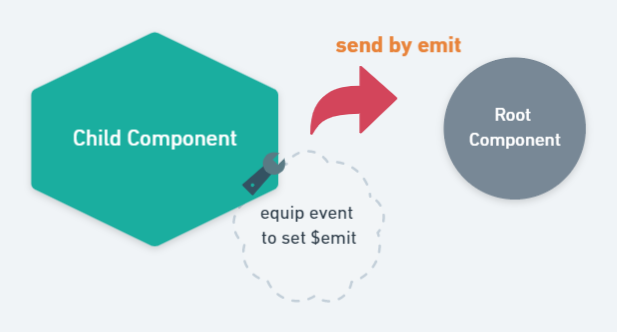
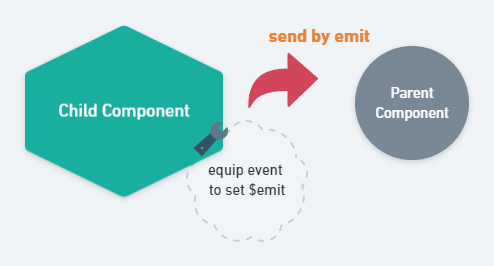
Site updated: 2020-03-16 23:45:29

diff --git a/2020/03/16/vue-emit/index.html b/2020/03/16/vue-emit/index.html
@@ -21,17 +21,17 @@
     var CONFIG = {"hostname":"yoursite.com","root":"/","scheme":"Pisces","version":"7.7.2","exturl":false,"sidebar":{"position":"right","display":"post","padding":18,"offset":12,"onmobile":false},"copycode":{"enable":true,"show_result":true,"style":"default"},"back2top":{"enable":true,"sidebar":false,"scrollpercent":false},"bookmark":{"enable":false,"color":"#222","save":"auto"},"fancybox":false,"mediumzoom":false,"lazyload":false,"pangu":false,"comments":{"style":"tabs","active":null,"storage":true,"lazyload":false,"nav":null},"algolia":{"hits":{"per_page":10},"labels":{"input_placeholder":"Search for Posts","hits_empty":"We didn't find any results for the search: ${query}","hits_stats":"${hits} results found in ${time} ms"}},"localsearch":{"enable":false,"trigger":"auto","top_n_per_article":1,"unescape":false,"preload":false},"motion":{"enable":true,"async":false,"transition":{"post_block":"fadeIn","post_header":"slideDownIn","post_body":"slideDownIn","coll_header":"slideLeftIn","sidebar":"slideUpIn"}}};
   </script>
 
-  <meta name="description" content="如果我們想要從子元件傳遞資料到根元件，我們必須使用$emit 建立一個客製化的事件，再透過這個事件，把資料投擲進到根元件。要怎麼做呢？概念其實和 props 差不多。當我們要把根元件的資料傳進子元件，需要透過 props 的方法，在子元件中建立一個接收資料的環境。 同樣的，子元件要投遞資料到根元件，也會需要先在子元件打造一組工具(客製化事件、custom event)，讓 Vue 先建構一個客製">
+  <meta name="description" content="如果我們想要從子元件傳遞資料到母元件，我們必須使用$emit 建立一個客製化的事件，再透過這個事件，把資料投擲進到母元件。要怎麼做呢？概念其實和 props 差不多。當我們要把根元件的資料傳進子元件，需要透過 props 的方法，在子元件中建立一個接收資料的環境。 同樣的，子元件要投遞資料到母元件，也會需要先在子元件打造一組工具(客製化事件、custom event)，讓 Vue 先建構一個客製">
 <meta property="og:type" content="article">
 <meta property="og:title" content="【Vue】$emit，透過客製化事件把子元件的資料傳到根元件">
 <meta property="og:url" content="http://yoursite.com/2020/03/16/vue-emit/index.html">
 <meta property="og:site_name" content="Myia&#39;s blog">
-<meta property="og:description" content="如果我們想要從子元件傳遞資料到根元件，我們必須使用$emit 建立一個客製化的事件，再透過這個事件，把資料投擲進到根元件。要怎麼做呢？概念其實和 props 差不多。當我們要把根元件的資料傳進子元件，需要透過 props 的方法，在子元件中建立一個接收資料的環境。 同樣的，子元件要投遞資料到根元件，也會需要先在子元件打造一組工具(客製化事件、custom event)，讓 Vue 先建構一個客製">
+<meta property="og:description" content="如果我們想要從子元件傳遞資料到母元件，我們必須使用$emit 建立一個客製化的事件，再透過這個事件，把資料投擲進到母元件。要怎麼做呢？概念其實和 props 差不多。當我們要把根元件的資料傳進子元件，需要透過 props 的方法，在子元件中建立一個接收資料的環境。 同樣的，子元件要投遞資料到母元件，也會需要先在子元件打造一組工具(客製化事件、custom event)，讓 Vue 先建構一個客製">
 <meta property="og:locale" content="zh_TW">
 <meta property="og:image" content="http://yoursite.com/post_img/vue_emit.png">
 <meta property="og:image" content="http://yoursite.com/post_img/web_materials/line_bright.png">
 <meta property="article:published_time" content="2020-03-16T15:16:07.000Z">
-<meta property="article:modified_time" content="2020-03-16T15:17:15.471Z">
+<meta property="article:modified_time" content="2020-03-16T15:41:20.183Z">
 <meta property="article:author" content="Myia">
 <meta property="article:tag" content="w3HexSchool">
 <meta name="twitter:card" content="summary">
@@ -207,7 +207,7 @@
               <span class="post-meta-item-text">發表於</span>
               
 
-              <time title="創建時間：2020-03-16 23:16:07 / 修改時間：23:17:15" itemprop="dateCreated datePublished" datetime="2020-03-16T23:16:07+08:00">2020-03-16</time>
+              <time title="創建時間：2020-03-16 23:16:07 / 修改時間：23:41:20" itemprop="dateCreated datePublished" datetime="2020-03-16T23:16:07+08:00">2020-03-16</time>
             </span>
             <span class="post-meta-item">
               <span class="post-meta-item-icon">
@@ -231,8 +231,8 @@
 
       
         <p><img src="/post_img/vue_emit.png" alt="外部資料傳遞進元件裡"></p>
-<p>如果我們想要從子元件傳遞資料到根元件，我們必須使用$emit 建立一個客製化的事件，再透過這個事件，把資料投擲進到根元件。要怎麼做呢？概念其實和 props 差不多。當我們要把根元件的資料傳進子元件，需要透過 props 的方法，在子元件中建立一個接收資料的環境。</p>
-<p>同樣的，子元件要投遞資料到根元件，也會需要先在子元件打造一組工具(客製化事件、custom event)，讓 Vue 先建構一個客製化事件。最後，再透過 DOM 模板，綁定這個工具，進一步呼叫根元件的函式。</p>
+<p>如果我們想要從子元件傳遞資料到母元件，我們必須使用$emit 建立一個客製化的事件，再透過這個事件，把資料投擲進到母元件。要怎麼做呢？概念其實和 props 差不多。當我們要把根元件的資料傳進子元件，需要透過 props 的方法，在子元件中建立一個接收資料的環境。</p>
+<p>同樣的，子元件要投遞資料到母元件，也會需要先在子元件打造一組工具(客製化事件、custom event)，讓 Vue 先建構一個客製化事件。最後，再透過 DOM 模板，綁定這個工具，進一步呼叫根元件的函式。</p>
 <a id="more"></a>
 <p>&ensp;<br><img src="/post_img/web_materials/line_bright.png" alt="分隔線"></p>
 <h2 id="根元件觸發事件的過程"><a href="#根元件觸發事件的過程" class="headerlink" title="根元件觸發事件的過程"></a>根元件觸發事件的過程</h2><p>先來複習一下根元件綁定事件的過程：</p>
@@ -242,7 +242,7 @@
 <p>^</p>
 <h2 id="子元件呼叫根元件的-method"><a href="#子元件呼叫根元件的-method" class="headerlink" title="子元件呼叫根元件的 method"></a>子元件呼叫根元件的 method</h2><p>如果，我們今天要將 <code>incrementTotal</code> 綁定到元件上，是不可行的。像這樣：</p>
 <p><code>&lt;component @click=&quot;incrementTotal&quot;&gt;&lt;/component&gt;</code> (錯誤示範)</p>
-<p>這是因為，我們無法在子元件直接使用根元件的任何東西，data、methods 都是。如果想要使用根元件的事件，我們就需要在子元件建立一個客製化事件(custom event)，再透過這個事件的指令呼叫根元件的 method。</p>
+<p>這是因為，我們無法在子元件直接使用母元件的任何東西，data、methods 都是。如果想要使用母元件的事件，我們就需要在子元件建立一個客製化事件(custom event)，再透過這個事件的指令呼叫母元件的 method。</p>
 <h3 id="子元件中"><a href="#子元件中" class="headerlink" title="子元件中"></a>子元件中</h3><h4 id="x-template"><a href="#x-template" class="headerlink" title="x-template"></a>x-template</h4><figure class="highlight html"><table><tr><td class="gutter"><pre><span class="line">1</span><br></pre></td><td class="code"><pre><span class="line"><span class="tag">&lt;<span class="name">button</span> @<span class="attr">click</span>=<span class="string">"incrementCounter"</span> <span class="attr">class</span>=<span class="string">"btn btn-outline-primary"</span>&gt;</span>增加 &#123;&#123; counter &#125;&#125; 元<span class="tag">&lt;/<span class="name">button</span>&gt;</span></span><br></pre></td></tr></table></figure>
 <p><strong>子元件的 template 事件呼叫建立客製化事件的函式</strong><br>^</p>
 <figure class="highlight js"><table><tr><td class="gutter"><pre><span class="line">1</span><br><span class="line">2</span><br><span class="line">3</span><br><span class="line">4</span><br><span class="line">5</span><br><span class="line">6</span><br><span class="line">7</span><br><span class="line">8</span><br></pre></td><td class="code"><pre><span class="line">Vue.component(<span class="string">'component'</span>,&#123;</span><br><span class="line">    <span class="comment">//...略</span></span><br><span class="line">    methods: &#123;</span><br><span class="line">        incrementCounter: <span class="function"><span class="keyword">function</span> (<span class="params"></span>) </span>&#123;</span><br><span class="line">            <span class="keyword">this</span>.$emit(<span class="string">'increment'</span>); <span class="comment">//建立一個客製化事件</span></span><br><span class="line">    &#125;</span><br><span class="line">&#125;</span><br><span class="line">&#125;)</span><br></pre></td></tr></table></figure>
@@ -256,13 +256,13 @@
 <figure class="highlight html"><table><tr><td class="gutter"><pre><span class="line">1</span><br></pre></td><td class="code"><pre><span class="line"><span class="tag">&lt;<span class="name">component</span> @<span class="attr">custom-event</span>=<span class="string">"rootMethod"</span>&gt;</span><span class="tag">&lt;/<span class="name">component</span>&gt;</span></span><br></pre></td></tr></table></figure>
 
 <p>這樣就達成子元件呼叫根元件的目的了。</p>
-<h2 id="那資料呢？"><a href="#那資料呢？" class="headerlink" title="那資料呢？"></a>那資料呢？</h2><p>說了這麼多，還沒講到資料。資料的部分，也是透過 <code>this.$emit()</code> 這個方法傳遞的。在這個方法中，第一個參數為這個客製化事件的名稱，第二的參數就是要投擲到根元件的資料啦！如下：</p>
+<h2 id="那資料呢？"><a href="#那資料呢？" class="headerlink" title="那資料呢？"></a>那資料呢？</h2><p>說了這麼多，還沒講到資料。資料的部分，也是透過 <code>this.$emit()</code> 這個方法傳遞的。在這個方法中，第一個參數為這個客製化事件的名稱，第二的參數就是要投擲到母元件的資料啦！如下：</p>
 <h3 id="子元件"><a href="#子元件" class="headerlink" title="子元件"></a>子元件</h3><figure class="highlight js"><table><tr><td class="gutter"><pre><span class="line">1</span><br></pre></td><td class="code"><pre><span class="line"><span class="keyword">this</span>.$emit(<span class="string">'name'</span>, <span class="keyword">this</span>.dataName)</span><br></pre></td></tr></table></figure>
 
-<p>不過，這樣還沒結束。在跨元件的傳遞中，如果設定了一方，另一方一定也會有相對應的設定。這樣 Vue 才會知道，要在哪「兩個」元件之間做傳遞。所以，在這個範例中，子元件已經做好傳遞資料的準備，根元件當然也要有個地方接收子元件的資料。因為上述都是和事件相關的設定，想當然根元件接收資料的地方，也會是在 methods 裏頭：</p>
-<h3 id="根元件"><a href="#根元件" class="headerlink" title="根元件"></a>根元件</h3><figure class="highlight js"><table><tr><td class="gutter"><pre><span class="line">1</span><br><span class="line">2</span><br><span class="line">3</span><br><span class="line">4</span><br><span class="line">5</span><br></pre></td><td class="code"><pre><span class="line">methods:&#123;</span><br><span class="line">    rootMethod(num)&#123;</span><br><span class="line">        <span class="keyword">this</span>.dataName += num;</span><br><span class="line">    &#125;</span><br><span class="line">&#125;</span><br></pre></td></tr></table></figure>
+<p>不過，這樣還沒結束。在跨元件的傳遞中，如果設定了一方，另一方一定也會有相對應的設定。這樣 Vue 才會知道，要在哪「兩個」元件之間做傳遞。所以，在這個範例中，子元件已經做好傳遞資料的準備，根元件當然也要有個地方接收子元件的資料。因為上述都是和事件相關的設定，想當然母元件接收資料的地方，也會是在 methods 裏頭：</p>
+<h3 id="母元件"><a href="#母元件" class="headerlink" title="母元件"></a>母元件</h3><figure class="highlight js"><table><tr><td class="gutter"><pre><span class="line">1</span><br><span class="line">2</span><br><span class="line">3</span><br><span class="line">4</span><br><span class="line">5</span><br></pre></td><td class="code"><pre><span class="line">methods:&#123;</span><br><span class="line">    rootMethod(num)&#123;</span><br><span class="line">        <span class="keyword">this</span>.dataName += num;</span><br><span class="line">    &#125;</span><br><span class="line">&#125;</span><br></pre></td></tr></table></figure>
 <p>…<br>記得嗎？上述我們透過客製化事件呼叫根元件的函式　<code>&lt;component　@custom-evnet=&quot;rootMethod&quot;&gt;&lt;/component&gt;</code>，如果要接收資料，透過在這個函式建立一個參數，Vue 就會知道這個參數等於子元件傳出來的資料了。</p>
-<p>如此一來，我們就能透過根元件做子元件資料的計算。</p>
+<p>如此一來，我們就能透過母元件做子元件資料的計算。</p>
 
     </div>
 
@@ -344,7 +344,7 @@
 
       <!--noindex-->
       <div class="post-toc-wrap sidebar-panel">
-          <div class="post-toc motion-element"><ol class="nav"><li class="nav-item nav-level-2"><a class="nav-link" href="#根元件觸發事件的過程"><span class="nav-number">1.</span> <span class="nav-text">根元件觸發事件的過程</span></a></li><li class="nav-item nav-level-2"><a class="nav-link" href="#子元件呼叫根元件的-method"><span class="nav-number">2.</span> <span class="nav-text">子元件呼叫根元件的 method</span></a><ol class="nav-child"><li class="nav-item nav-level-3"><a class="nav-link" href="#子元件中"><span class="nav-number">2.1.</span> <span class="nav-text">子元件中</span></a><ol class="nav-child"><li class="nav-item nav-level-4"><a class="nav-link" href="#x-template"><span class="nav-number">2.1.1.</span> <span class="nav-text">x-template</span></a></li></ol></li></ol></li><li class="nav-item nav-level-2"><a class="nav-link" href="#那資料呢？"><span class="nav-number">3.</span> <span class="nav-text">那資料呢？</span></a><ol class="nav-child"><li class="nav-item nav-level-3"><a class="nav-link" href="#子元件"><span class="nav-number">3.1.</span> <span class="nav-text">子元件</span></a></li><li class="nav-item nav-level-3"><a class="nav-link" href="#根元件"><span class="nav-number">3.2.</span> <span class="nav-text">根元件</span></a></li></ol></li></ol></div>
+          <div class="post-toc motion-element"><ol class="nav"><li class="nav-item nav-level-2"><a class="nav-link" href="#根元件觸發事件的過程"><span class="nav-number">1.</span> <span class="nav-text">根元件觸發事件的過程</span></a></li><li class="nav-item nav-level-2"><a class="nav-link" href="#子元件呼叫根元件的-method"><span class="nav-number">2.</span> <span class="nav-text">子元件呼叫根元件的 method</span></a><ol class="nav-child"><li class="nav-item nav-level-3"><a class="nav-link" href="#子元件中"><span class="nav-number">2.1.</span> <span class="nav-text">子元件中</span></a><ol class="nav-child"><li class="nav-item nav-level-4"><a class="nav-link" href="#x-template"><span class="nav-number">2.1.1.</span> <span class="nav-text">x-template</span></a></li></ol></li></ol></li><li class="nav-item nav-level-2"><a class="nav-link" href="#那資料呢？"><span class="nav-number">3.</span> <span class="nav-text">那資料呢？</span></a><ol class="nav-child"><li class="nav-item nav-level-3"><a class="nav-link" href="#子元件"><span class="nav-number">3.1.</span> <span class="nav-text">子元件</span></a></li><li class="nav-item nav-level-3"><a class="nav-link" href="#母元件"><span class="nav-number">3.2.</span> <span class="nav-text">母元件</span></a></li></ol></li></ol></div>
       </div>
       <!--/noindex-->
 

diff --git a/2020/03/15/vue-props-basic/index.html b/2020/03/15/vue-props-basic/index.html
@@ -21,17 +21,17 @@
     var CONFIG = {"hostname":"yoursite.com","root":"/","scheme":"Pisces","version":"7.7.2","exturl":false,"sidebar":{"position":"right","display":"post","padding":18,"offset":12,"onmobile":false},"copycode":{"enable":true,"show_result":true,"style":"default"},"back2top":{"enable":true,"sidebar":false,"scrollpercent":false},"bookmark":{"enable":false,"color":"#222","save":"auto"},"fancybox":false,"mediumzoom":false,"lazyload":false,"pangu":false,"comments":{"style":"tabs","active":null,"storage":true,"lazyload":false,"nav":null},"algolia":{"hits":{"per_page":10},"labels":{"input_placeholder":"Search for Posts","hits_empty":"We didn't find any results for the search: ${query}","hits_stats":"${hits} results found in ${time} ms"}},"localsearch":{"enable":false,"trigger":"auto","top_n_per_article":1,"unescape":false,"preload":false},"motion":{"enable":true,"async":false,"transition":{"post_block":"fadeIn","post_header":"slideDownIn","post_body":"slideDownIn","coll_header":"slideLeftIn","sidebar":"slideUpIn"}}};
   </script>
 
-  <meta name="description" content="(以下是使用 CDN，而不是使用 Vue cli 的方式) 在 Vue 中，每個元件的資料是獨立存在的。我們不能從 A 元件引用 B 元件的資料，也不能從根元件引用子元件的資料內容。偏偏，實務上，還是會需要做跨元件的資料引用。Props 就是對應到這個問題的解決方式之一。Props 負責的是從父元件傳遞資料到子元件。(至於其他的跨元件方式，則有其他的方法)">
+  <meta name="description" content="(以下是使用 CDN，而不是使用 Vue cli 的方式) 在 Vue 中，每個元件的資料是獨立存在的。我們不能從 A 元件引用 B 元件的資料，也不能從根元件引用子元件的資料內容。偏偏，實務上，還是會需要做跨元件的資料引用。Props 就是對應到這個問題的解決方式之一。Props 負責的是從母元件傳遞資料到子元件。(至於其他的跨元件方式，則有其他的方法)">
 <meta property="og:type" content="article">
 <meta property="og:title" content="【Vue】Props的基礎概念與用法">
 <meta property="og:url" content="http://yoursite.com/2020/03/15/vue-props-basic/index.html">
 <meta property="og:site_name" content="Myia&#39;s blog">
-<meta property="og:description" content="(以下是使用 CDN，而不是使用 Vue cli 的方式) 在 Vue 中，每個元件的資料是獨立存在的。我們不能從 A 元件引用 B 元件的資料，也不能從根元件引用子元件的資料內容。偏偏，實務上，還是會需要做跨元件的資料引用。Props 就是對應到這個問題的解決方式之一。Props 負責的是從父元件傳遞資料到子元件。(至於其他的跨元件方式，則有其他的方法)">
+<meta property="og:description" content="(以下是使用 CDN，而不是使用 Vue cli 的方式) 在 Vue 中，每個元件的資料是獨立存在的。我們不能從 A 元件引用 B 元件的資料，也不能從根元件引用子元件的資料內容。偏偏，實務上，還是會需要做跨元件的資料引用。Props 就是對應到這個問題的解決方式之一。Props 負責的是從母元件傳遞資料到子元件。(至於其他的跨元件方式，則有其他的方法)">
 <meta property="og:locale" content="zh_TW">
 <meta property="og:image" content="http://yoursite.com/post_img/vue_props_basic.png">
 <meta property="og:image" content="http://yoursite.com/post_img/web_materials/line_bright.png">
 <meta property="article:published_time" content="2020-03-15T08:50:42.000Z">
-<meta property="article:modified_time" content="2020-03-16T15:01:08.146Z">
+<meta property="article:modified_time" content="2020-03-16T15:44:18.932Z">
 <meta property="article:author" content="Myia">
 <meta property="article:tag" content="-w3HexSchool">
 <meta name="twitter:card" content="summary">
@@ -213,7 +213,7 @@
                   <i class="fa fa-calendar-check-o"></i>
                 </span>
                 <span class="post-meta-item-text">更新於</span>
-                <time title="修改時間：2020-03-16 23:01:08" itemprop="dateModified" datetime="2020-03-16T23:01:08+08:00">2020-03-16</time>
+                <time title="修改時間：2020-03-16 23:44:18" itemprop="dateModified" datetime="2020-03-16T23:44:18+08:00">2020-03-16</time>
               </span>
             <span class="post-meta-item">
               <span class="post-meta-item-icon">
@@ -238,7 +238,7 @@
       
         <p><img src="/post_img/vue_props_basic.png" alt="外部資料傳遞進元件裡"></p>
 <p>(以下是使用 CDN，而不是使用 Vue cli 的方式)</p>
-<p>在 Vue 中，每個元件的資料是獨立存在的。我們不能從 A 元件引用 B 元件的資料，也不能從根元件引用子元件的資料內容。偏偏，實務上，還是會需要做跨元件的資料引用。Props 就是對應到這個問題的解決方式之一。Props 負責的是從父元件傳遞資料到子元件。(至於其他的跨元件方式，則有其他的方法)</p>
+<p>在 Vue 中，每個元件的資料是獨立存在的。我們不能從 A 元件引用 B 元件的資料，也不能從根元件引用子元件的資料內容。偏偏，實務上，還是會需要做跨元件的資料引用。Props 就是對應到這個問題的解決方式之一。Props 負責的是從母元件傳遞資料到子元件。(至於其他的跨元件方式，則有其他的方法)</p>
 <a id="more"></a>
 <p>&ensp;<br><img src="/post_img/web_materials/line_bright.png" alt="分隔線"><br>&ensp;<br>props 的使用方式和一般使用 data 綁定的方式非常相似。程式碼可能像是這樣：</p>
 <h2 id="一般使用-data-的方式"><a href="#一般使用-data-的方式" class="headerlink" title="一般使用 data 的方式"></a>一般使用 data 的方式</h2><p><strong>HTML</strong></p>
@@ -249,7 +249,7 @@
 <p>在元件的 template 可以看到，這個元件使用 <code>{ }</code> 的方式引用元件本身的 data 。<br>(因為 Hexo 用兩個大括號會跳錯，所以這邊我只用單個…)</p>
 <h2 id="Props-也是差不多"><a href="#Props-也是差不多" class="headerlink" title="Props 也是差不多"></a>Props 也是差不多</h2><p><strong>HTML</strong></p>
 <figure class="highlight html"><table><tr><td class="gutter"><pre><span class="line">1</span><br><span class="line">2</span><br><span class="line">3</span><br></pre></td><td class="code"><pre><span class="line"><span class="tag">&lt;<span class="name">div</span> <span class="attr">id</span>=<span class="string">"app"</span>&gt;</span></span><br><span class="line">  <span class="tag">&lt;<span class="name">photo</span>&gt;</span><span class="tag">&lt;/<span class="name">photo</span>&gt;</span></span><br><span class="line"><span class="tag">&lt;/<span class="name">div</span>&gt;</span></span><br></pre></td></tr></table></figure>
-<p>…<br><strong>元件</strong></p>
+<p>…<br><strong>子元件</strong></p>
 <figure class="highlight html"><table><tr><td class="gutter"><pre><span class="line">1</span><br><span class="line">2</span><br><span class="line">3</span><br><span class="line">4</span><br><span class="line">5</span><br><span class="line">6</span><br></pre></td><td class="code"><pre><span class="line"><span class="tag">&lt;<span class="name">script</span> <span class="attr">type</span>=<span class="string">"text/x-template"</span> <span class="attr">id</span>=<span class="string">"photo"</span>&gt;</span></span><br><span class="line"><span class="handlebars"><span class="xml">  <span class="tag">&lt;<span class="name">div</span>&gt;</span></span></span></span><br><span class="line"><span class="javascript">      &lt;img :src=<span class="string">"imgUrl"</span> <span class="class"><span class="keyword">class</span></span>=<span class="string">"img-fluid"</span> alt=<span class="string">""</span> /&gt;</span></span><br><span class="line"><span class="handlebars"><span class="xml">      <span class="tag">&lt;<span class="name">p</span>&gt;</span>風景照<span class="tag">&lt;/<span class="name">p</span>&gt;</span></span></span></span><br><span class="line"><span class="handlebars"><span class="xml">  <span class="tag">&lt;/<span class="name">div</span>&gt;</span></span></span></span><br><span class="line"><span class="tag">&lt;/<span class="name">script</span>&gt;</span></span><br></pre></td></tr></table></figure>
 <figure class="highlight plain"><table><tr><td class="gutter"><pre><span class="line">1</span><br><span class="line">2</span><br><span class="line">3</span><br><span class="line">4</span><br></pre></td><td class="code"><pre><span class="line">Vue.component(&#39;photo&#39;, &#123;</span><br><span class="line">  props: [&#39;imgUrl&#39;],</span><br><span class="line">  template: &#39;#photo&#39;</span><br><span class="line">&#125;);</span><br></pre></td></tr></table></figure>
 
@@ -262,9 +262,10 @@
 <p><code>&lt;photo :img-url=&quot;dataName&quot;&gt;&lt;/photo&gt;</code></p>
 <p>** Vue 透過 props 名稱建立一個 HTML 屬性 **</p>
 <p>(或許你會發現，Vue 最後在 HTML 使用上，通常都是透過 HTML 的屬性做綁定，像是，@event、:class、v-for、v-if 等等。雖然要記的步驟好像很多，但是先把握住這個原則，或許會對自己掌握 Vue 的實際使用會有些幫助。)</p>
-<p>這邊使用的是根元件(也就是透過 new Vue() 建立起來的那個龐大物件)裡的 data 名稱。透過這樣的方法，我們就成功地把根元件的 data 傳到元件裡面。</p>
-<p>如果我們透過開發者工具查看元件的 props 屬性，就會有對應到的根元件資料內容。</p>
+<p>這邊使用的是根元件(也就是透過 new Vue() 建立起來的那個龐大物件)裡的 data 名稱。透過這樣的方法，我們就成功地把母/根元件的 data 傳到子元件裡面。</p>
+<p>如果我們透過開發者工具查看元件的 props 屬性，就會有對應到的母/根元件資料內容。</p>
 <h3 id="動態與靜態"><a href="#動態與靜態" class="headerlink" title="動態與靜態"></a>動態與靜態</h3><p>在上述的例子中，我們使用的是動態的傳遞方式。如果沒有冒號，只有 <code>img-url</code>，就屬靜態的傳遞方式，必須手動地把資料的內容貼在等號裡面。</p>
+<p>** 母元件(parent component)不一定是根元件</p>
 
     </div>
 

diff --git a/index.html b/index.html
@@ -200,7 +200,7 @@
               <span class="post-meta-item-text">發表於</span>
               
 
-              <time title="創建時間：2020-03-16 23:16:07 / 修改時間：23:17:15" itemprop="dateCreated datePublished" datetime="2020-03-16T23:16:07+08:00">2020-03-16</time>
+              <time title="創建時間：2020-03-16 23:16:07 / 修改時間：23:41:20" itemprop="dateCreated datePublished" datetime="2020-03-16T23:16:07+08:00">2020-03-16</time>
             </span>
             <span class="post-meta-item">
               <span class="post-meta-item-icon">
@@ -224,8 +224,8 @@
 
       
           <p><img src="/post_img/vue_emit.png" alt="外部資料傳遞進元件裡"></p>
-<p>如果我們想要從子元件傳遞資料到根元件，我們必須使用$emit 建立一個客製化的事件，再透過這個事件，把資料投擲進到根元件。要怎麼做呢？概念其實和 props 差不多。當我們要把根元件的資料傳進子元件，需要透過 props 的方法，在子元件中建立一個接收資料的環境。</p>
-<p>同樣的，子元件要投遞資料到根元件，也會需要先在子元件打造一組工具(客製化事件、custom event)，讓 Vue 先建構一個客製化事件。最後，再透過 DOM 模板，綁定這個工具，進一步呼叫根元件的函式。</p>
+<p>如果我們想要從子元件傳遞資料到母元件，我們必須使用$emit 建立一個客製化的事件，再透過這個事件，把資料投擲進到母元件。要怎麼做呢？概念其實和 props 差不多。當我們要把根元件的資料傳進子元件，需要透過 props 的方法，在子元件中建立一個接收資料的環境。</p>
+<p>同樣的，子元件要投遞資料到母元件，也會需要先在子元件打造一組工具(客製化事件、custom event)，讓 Vue 先建構一個客製化事件。最後，再透過 DOM 模板，綁定這個工具，進一步呼叫根元件的函式。</p>
           <!--noindex-->
             <div class="post-button">
               <a class="btn" href="/2020/03/16/vue-emit/#more" rel="contents">
@@ -283,7 +283,7 @@
                   <i class="fa fa-calendar-check-o"></i>
                 </span>
                 <span class="post-meta-item-text">更新於</span>
-                <time title="修改時間：2020-03-16 23:01:08" itemprop="dateModified" datetime="2020-03-16T23:01:08+08:00">2020-03-16</time>
+                <time title="修改時間：2020-03-16 23:44:18" itemprop="dateModified" datetime="2020-03-16T23:44:18+08:00">2020-03-16</time>
               </span>
             <span class="post-meta-item">
               <span class="post-meta-item-icon">
@@ -308,7 +308,7 @@
       
           <p><img src="/post_img/vue_props_basic.png" alt="外部資料傳遞進元件裡"></p>
 <p>(以下是使用 CDN，而不是使用 Vue cli 的方式)</p>
-<p>在 Vue 中，每個元件的資料是獨立存在的。我們不能從 A 元件引用 B 元件的資料，也不能從根元件引用子元件的資料內容。偏偏，實務上，還是會需要做跨元件的資料引用。Props 就是對應到這個問題的解決方式之一。Props 負責的是從父元件傳遞資料到子元件。(至於其他的跨元件方式，則有其他的方法)</p>
+<p>在 Vue 中，每個元件的資料是獨立存在的。我們不能從 A 元件引用 B 元件的資料，也不能從根元件引用子元件的資料內容。偏偏，實務上，還是會需要做跨元件的資料引用。Props 就是對應到這個問題的解決方式之一。Props 負責的是從母元件傳遞資料到子元件。(至於其他的跨元件方式，則有其他的方法)</p>
           <!--noindex-->
             <div class="post-button">
               <a class="btn" href="/2020/03/15/vue-props-basic/#more" rel="contents">
